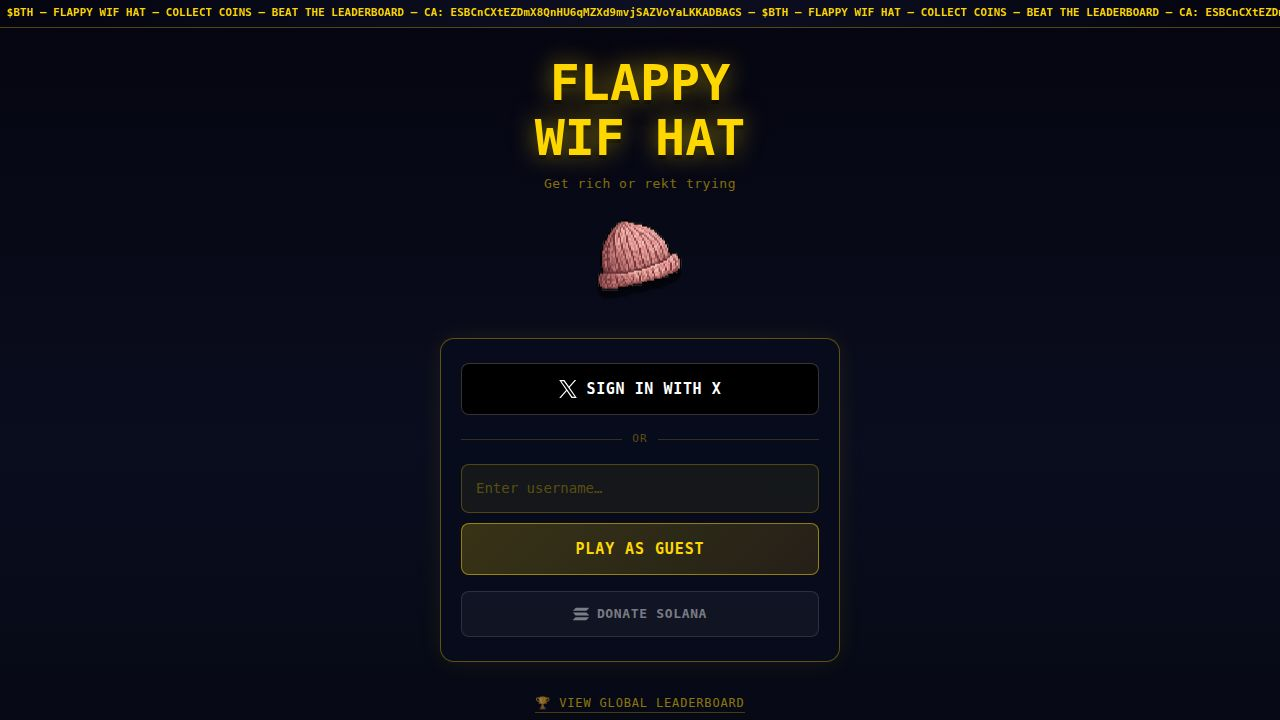
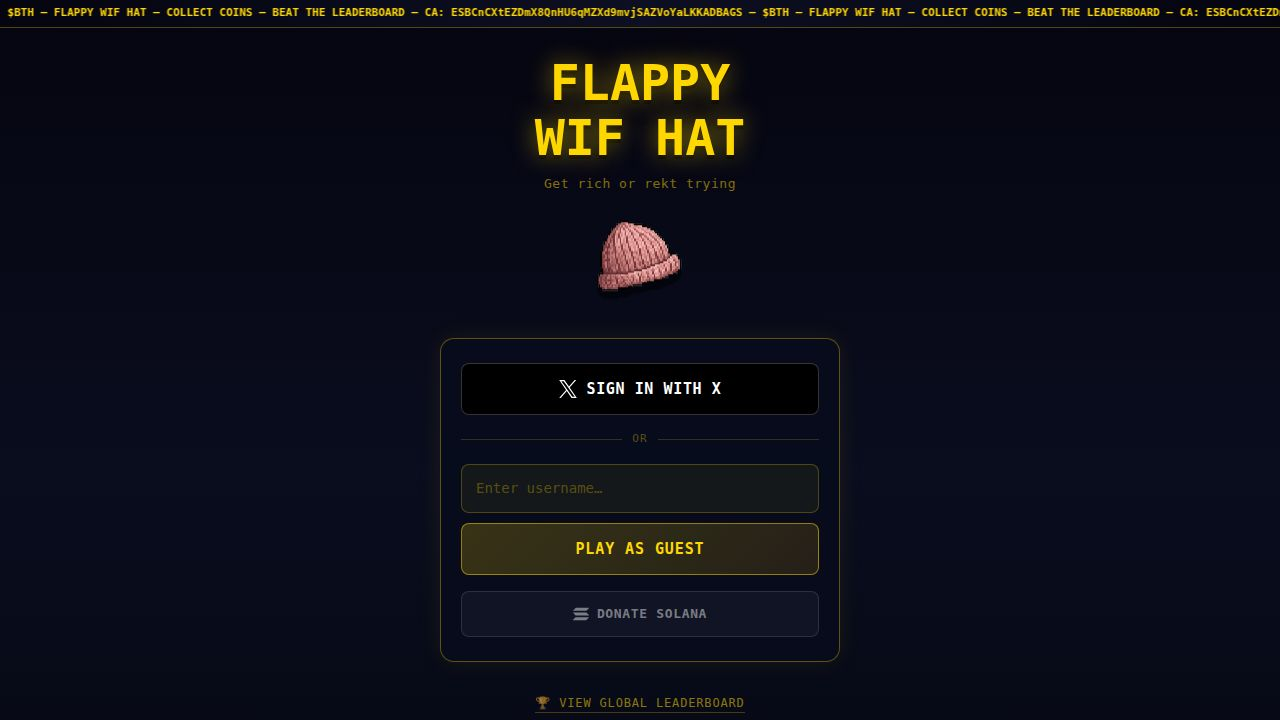
Add contact information for game development inquiries
Update the home page to include a message and link for users interested in custom game development.

Replit-Commit-Author: Agent
Replit-Commit-Session-Id: f4fb0a67-4374-4c21-93b0-e472031ba3a1
Replit-Commit-Checkpoint-Type: full_checkpoint
Replit-Commit-Event-Id: 3626c1f5-8d42-4abb-84bf-7dcd18853c33
Replit-Commit-Screenshot-Url: https://storage.googleapis.com/screenshot-production-us-central1/e2c75b94-3452-4d9c-be44-e50391ba1bf3/f4fb0a67-4374-4c21-93b0-e472031ba3a1/6P9v9xL
Replit-Helium-Checkpoint-Created: true

Changed region(s): [[0.0, 0.0, 1.0, 0.0306], [0.4688, 0.3056, 0.5312, 0.3972]]

diff --git a/artifacts/wifhat-game/src/pages/home.tsx b/artifacts/wifhat-game/src/pages/home.tsx
@@ -385,6 +385,19 @@ export default function Home() {
             🏆 VIEW GLOBAL LEADERBOARD
           </span>
         </Link>
+
+        {/* Built-by credit */}
+        <p style={{ color: "rgba(255,255,255,0.28)", fontFamily: FONT, fontSize: "11px", textAlign: "center", margin: 0, letterSpacing: "0.04em" }}>
+          Want a game like this?{" "}
+          <a
+            href="https://x.com/EDJ_Crypto"
+            target="_blank"
+            rel="noopener noreferrer"
+            style={{ color: "rgba(255,215,0,0.55)", textDecoration: "underline" }}
+          >
+            Reach out to ED
+          </a>
+        </p>
       </div>
 
       <style>{`
